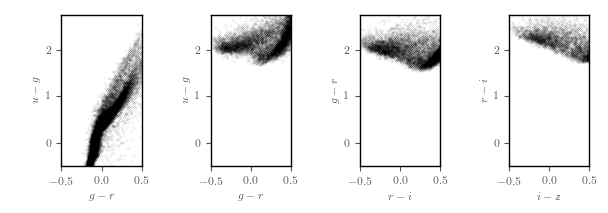
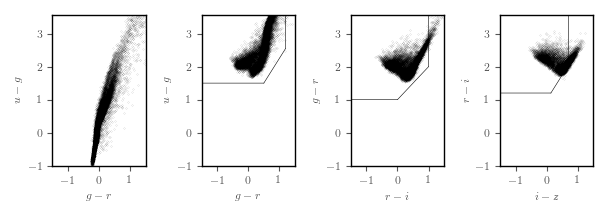
Added color boxes to color-color plots.

diff --git a/color_box.py b/color_box.py
@@ -1,0 +1,40 @@
+import numpy as np
+import pylab as pl
+
+
+def color_box(ax, dband = 'g'):    
+                  ## Hildebrandt (2018), https://arxiv.org/pdf/0903.3951.pdf;  Otherwise, GoldRush (Ono, 2018).  
+    hsc        = {'u': {'bcol': 'u-g', 'rcol': 'g-r', 'minbcol': 1.5, 'maxrcol': 1.2, 'gradient': 1.5, 'intercept': 0.75, 'hiz': 4.5},\
+                  'g': {'bcol': 'g-r', 'rcol': 'r-i', 'minbcol': 1.0, 'maxrcol': 1.0, 'gradient': 1.0, 'intercept': 1.00, 'hiz': 6.0},\
+                  'r': {'bcol': 'r-i', 'rcol': 'i-z', 'minbcol': 1.2, 'maxrcol': 0.7, 'gradient': 1.5, 'intercept': 1.00, 'hiz': 7.5},\
+                  'z': {'bcol': 'i-z', 'rcol': 'z-y', 'minbcol': 1.5, 'maxrcol': 0.5, 'gradient': 2.0, 'intercept': 1.10, 'hiz': 7.5}}
+    
+    bcol       =  hsc[dband]['bcol']
+    rcol       =  hsc[dband]['rcol']
+
+    minbcol    =  hsc[dband]['minbcol']        ## Detect the break
+    maxrcol    =  hsc[dband]['maxrcol']        ## Flat spectra above break. 
+    
+    gradient   =  hsc[dband]['gradient']
+    intercept  =  hsc[dband]['intercept']
+
+    rcols      =  np.arange(-1.5, 4.0, 0.001)
+    bcols      =  gradient * rcols + intercept
+
+    minrcol    = (minbcol - intercept) / gradient
+    bcollim    =  gradient * maxrcol + intercept
+
+    ## Plot selection box perimeter. 
+    ax.plot(rcols[rcols < minrcol], minbcol * np.ones_like(rcols[rcols < minrcol]), 'k', lw=0.4)
+    ax.plot(maxrcol * np.ones_like(bcols[bcols > bcollim]), bcols[bcols > bcollim], 'k', lw=0.4)
+    
+    ## Gradient
+    ax.plot(rcols[(rcols > minrcol) & (bcols < bcollim)], bcols[(rcols > minrcol) & (bcols < bcollim)], c='k', linestyle='-', lw=0.4)
+
+    return  0
+
+
+if __name__ == '__main__':
+    colourtrack('g')
+    
+    print('\n\nDone.\n\n')

diff --git a/colorcolor.py b/colorcolor.py
@@ -12,6 +12,8 @@ from    get_data          import  get_data, get_pyloser
 from    utils             import  latexify
 from    sphotometry       import  read_mags
 from    fast_scatter      import  fast_scatter
+from    color_box         import  color_box
+
 
 ##  Closest redshifts:  2.024621, 3.00307, 3.963392, 5.0244
 boxsize      =  100.
@@ -49,6 +51,10 @@ fast_scatter(axes[1], gmr3, umg3, np.ones_like(gmr3), 0.9, 1.1, 10, markersize=0
 fast_scatter(axes[2], rmi4, gmr4, np.ones_like(rmi4), 0.9, 1.1, 10, markersize=0.1, cmap='autumn_r', printit=False, alpha=1.0)
 fast_scatter(axes[3], imz5, rmi5, np.ones_like(imz5), 0.9, 1.1, 10, markersize=0.1, cmap='autumn_r', printit=False, alpha=1.0)
 
+color_box(axes[1], 'u')
+color_box(axes[2], 'g')
+color_box(axes[3], 'r')
+
 axes[0].set_xlabel(r'$g-r$')
 axes[0].set_ylabel(r'$u-g$')
 
@@ -69,8 +75,8 @@ for ax in axes:
   ax.spines['left'].set_color('black')
   ax.spines['right'].set_color('black')
 
-  ax.set_xlim(-.5,   .5)
-  ax.set_ylim(-.5, 2.75)
+  ax.set_xlim(-1.5, 1.5)
+  ax.set_ylim(-1.0, 3.55)
 
   ax.legend(frameon=False, loc=1)
   

diff --git a/colorcolor_obs.py b/colorcolor_obs.py
@@ -17,6 +17,7 @@ from    scipy.stats       import  norm       as normal_rand
 from    sphotometry       import  read_mags
 from    fast_scatter      import  fast_scatter
 from    get_data          import  get_pyloser
+from    color_box         import  color_box
 
 
 boxsize      =  100.
@@ -74,6 +75,10 @@ fast_scatter(axes[1], gmr3, umg3, np.ones_like(gmr3), 0.9, 1.1, 10, markersize=0
 fast_scatter(axes[2], rmi4, gmr4, np.ones_like(rmi4), 0.9, 1.1, 10, markersize=0.1, cmap='autumn_r', printit=False, alpha=1.0)
 fast_scatter(axes[3], imz5, rmi5, np.ones_like(imz5), 0.9, 1.1, 10, markersize=0.1, cmap='autumn_r', printit=False, alpha=1.0)
 
+color_box(axes[1], 'u')
+color_box(axes[2], 'g')
+color_box(axes[3], 'r')
+
 axes[0].set_xlabel(r'$g-r$')
 axes[0].set_ylabel(r'$u-g$')
 
@@ -94,8 +99,8 @@ for ax in axes:
   ax.spines['left'].set_color('black')
   ax.spines['right'].set_color('black')
 
-  ax.set_xlim(-.5,   .5)
-  ax.set_ylim(-.5, 2.75)
+  ax.set_xlim(-1.5, 1.5)
+  ax.set_ylim(-1.0, 3.55)
 
   ax.legend(frameon=False, loc=1)
 
